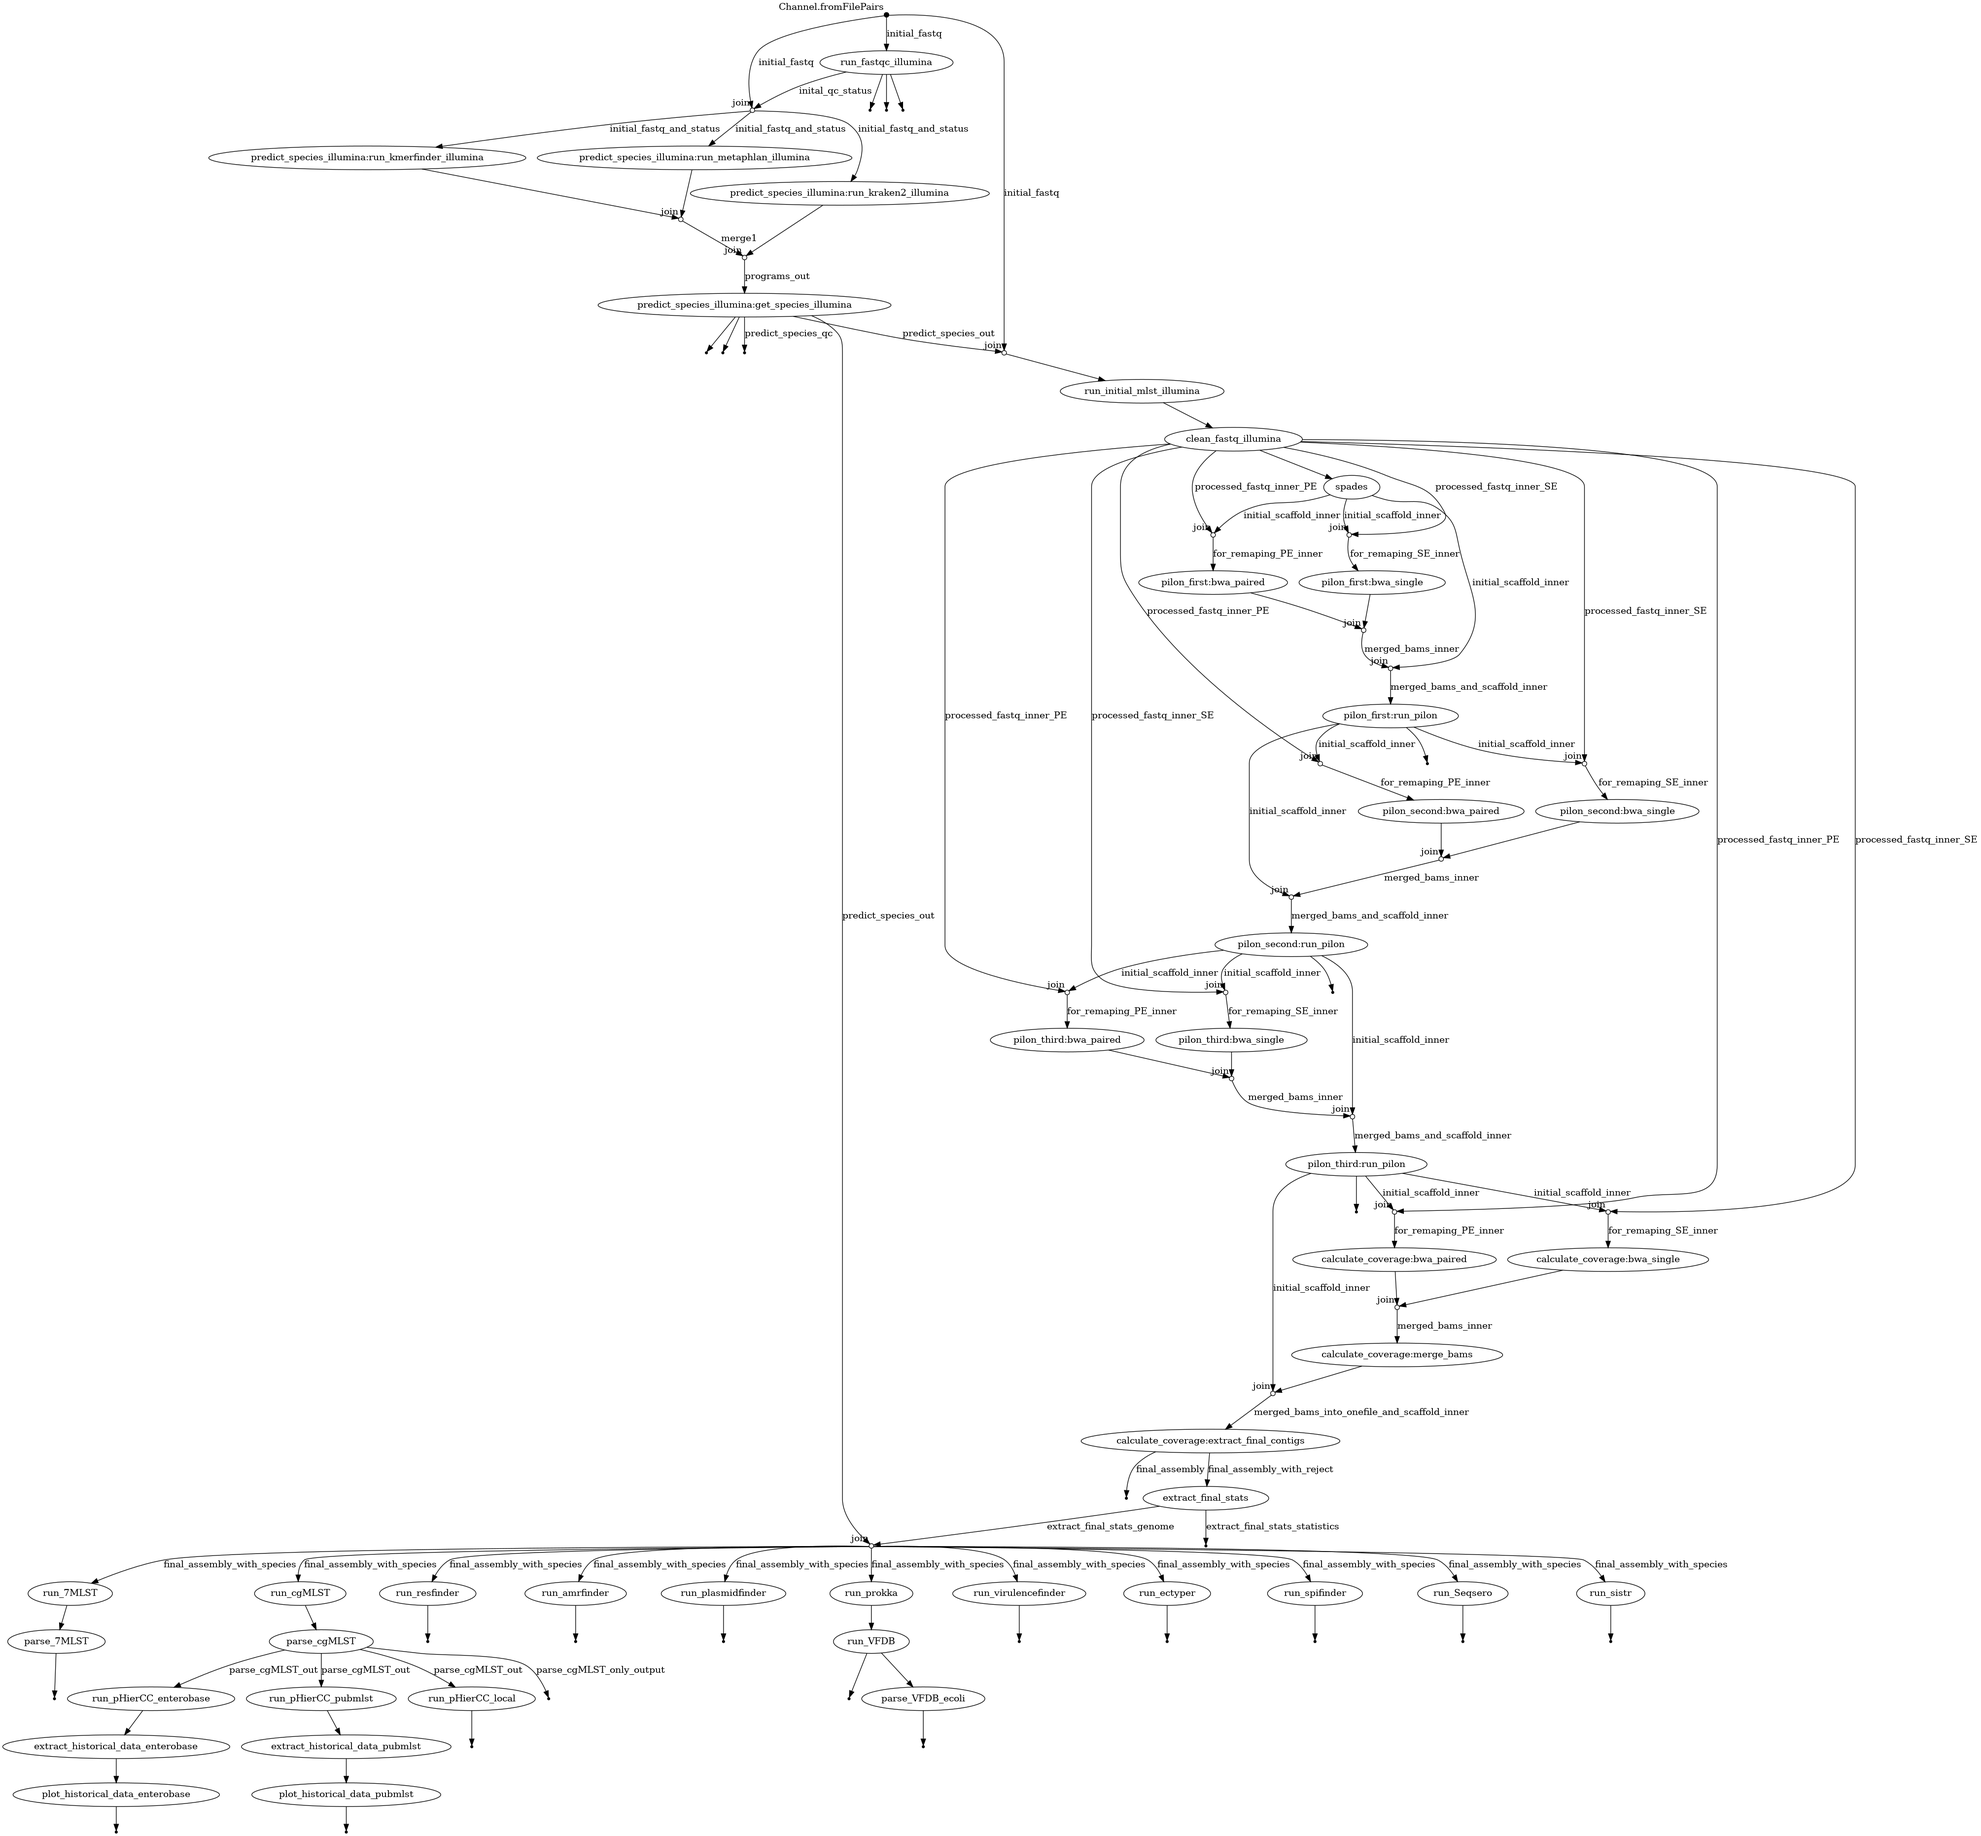
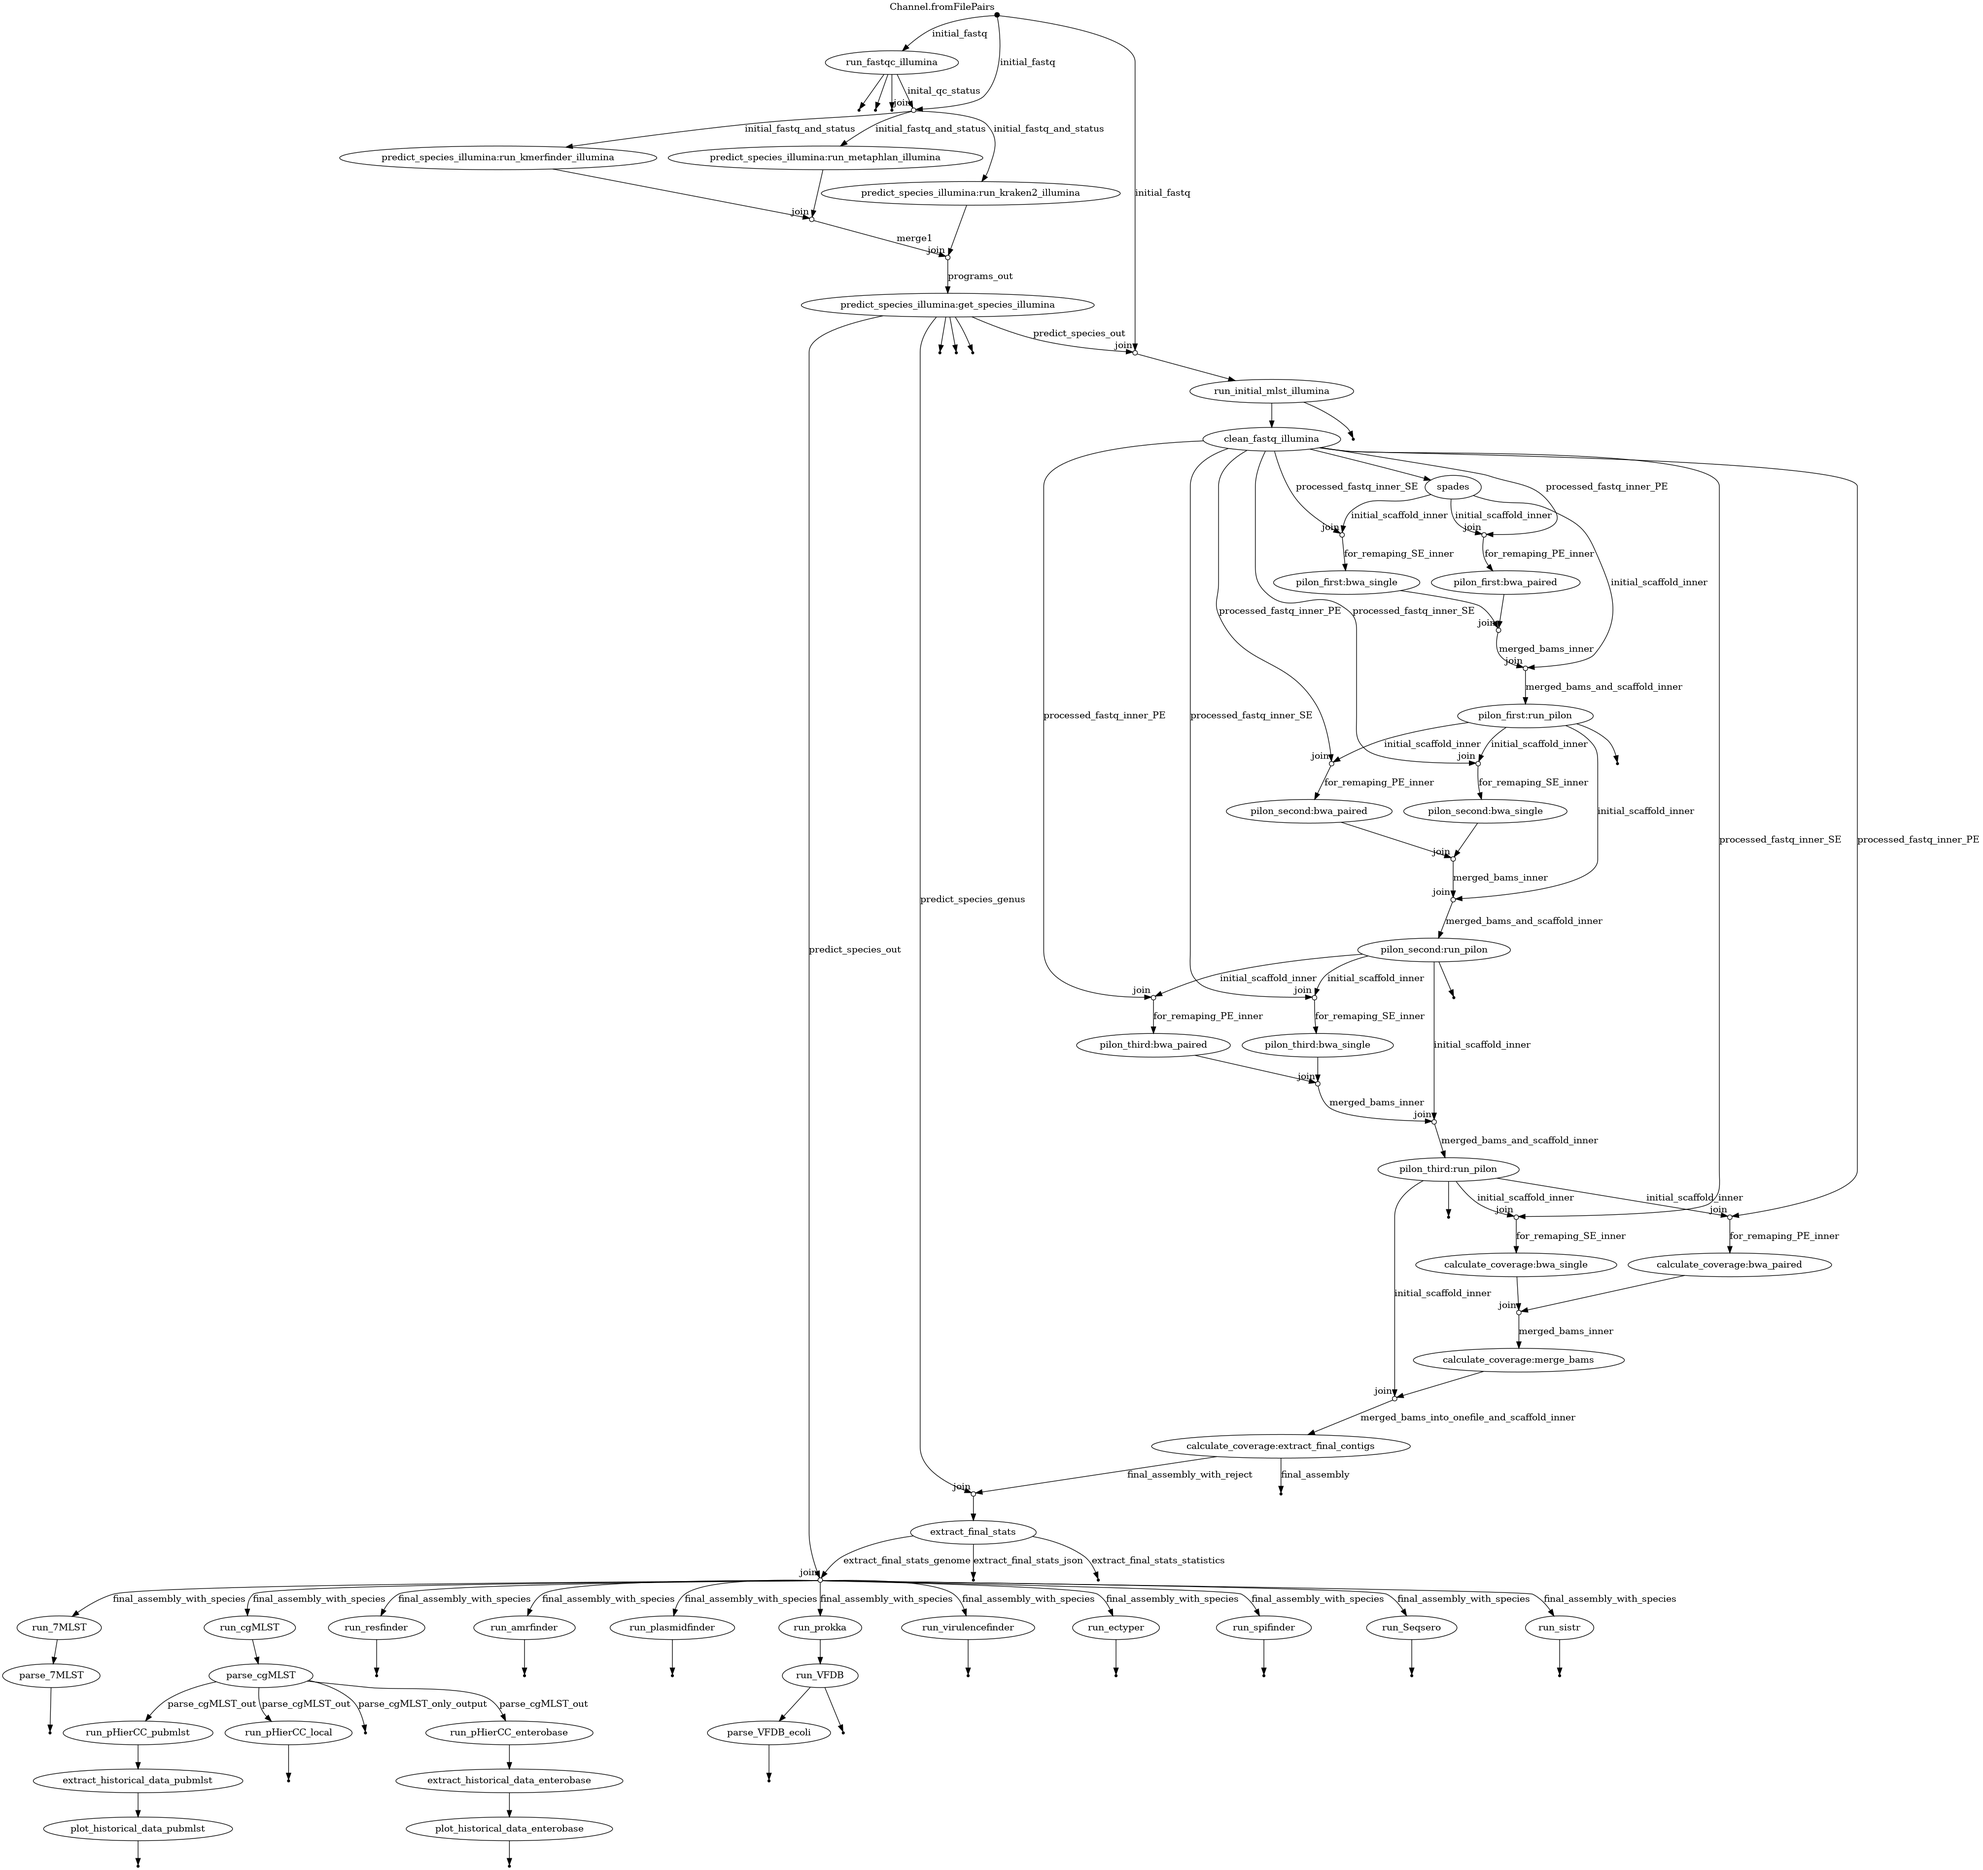
Pipeline now produce valid json ouput up to extract_final_stats module

diff --git a/bin/extract_final_stats_parser.py b/bin/extract_final_stats_parser.py
@@ -1,0 +1,157 @@
+#!/usr/bin/env python3
+"""
+Skrypt do zwracania statusu i json w module extract_final_stats
+"""
+
+import sys
+import click
+import json
+
+
+@click.command()
+@click.option('-i', '--input_file_filtered', help='[INPUT] a path to an input file with summary '
+                                                  'statistics of a genome that is based on filtered contigs ',
+              type=click.Path(), default="fastqc_data.txt", required=False)
+@click.option('-j', '--input_file_unfiltered', help='[INPUT] a path to an input file with summary '
+                                                    'statistics of a genome that is based on unfiltered contigs ',
+              type=click.Path(), default="fastqc_data.txt", required=False)
+@click.option('-l', '--nvalue', help='[INPUT] QC parameter minimal value of N50',
+              type=int,  required=True)
+@click.option('-n', '--max_contigs', help='[INPUT] QC parameter maximal number of contigs',
+              type=int,  required=True)
+@click.option('-g', '--genome_length', help='[INPUT] Length of an expected genome',
+              type=int,  required=True)
+@click.option('-c', '--completness', help='[INPUT] QC parameter. Fraction of genome completness',
+              type=float,  required=True)
+@click.option('-p', '--coverage', help='[INPUT] QC parameter. Minimal average coverage',
+              type=int,  required=True)
+@click.option('-s', '--status', help='[INPUT] PREDEFINED status that is transferred to an output json. '
+                                     'If this status was either nie or blad fastqc will not run',
+              type=click.Choice(['tak', 'nie', 'blad'], case_sensitive=False),  required=True)
+@click.option('-r', '--error', help='[INPUT] PREDEFINED error message that is put in json. '
+                                    'Only used when status was set to nie or blad',
+              type=str,  required=False, default="")
+@click.option('-o', '--output', help='[Output] Name of a file with json output',
+              type=str,  required=False)
+def main_program(input_file_filtered, input_file_unfiltered, max_contigs, nvalue, genome_length,
+                 completness, coverage, status, output="", error=""):
+    if status != "tak":
+        json_output = [{"step_name": "pre-filtering",
+                        "status": status,
+                        "error_message": error},
+                       {"step_name": "post-filtering",
+                        "status": status,
+                        "error_message": error}]
+    else:
+        json_output = []
+
+        # initial values of all parameters passed to a json output
+        # for unfiltered contigs
+
+        unfiltered_total_length_value = 0
+        unfiltered_number_of_contigs_value = 0
+        unfiltered_average_covereage_value = 0
+        unfiltered_N50_value = 0
+        unfiltered_L50_value = 0
+        unfiltered_number_of_Ns_value = 0
+
+        # for filtered contigs
+
+        filtered_total_length_value = 0
+        filtered_number_of_contigs_value = 0
+        filtered_average_covereage_value = 0
+        filtered_N50_value = 0
+        filtered_L50_value = 0
+        filtered_number_of_Ns_value = 0
+
+        with open(input_file_filtered) as f:
+            for line in f:
+                line = line.split("=")
+                klucz, wartosc = line[0].rstrip(), line[1].rstrip()
+                if klucz == "n_contig":
+                    filtered_number_of_contigs_value = int(float(wartosc))
+                elif klucz == "n_base":
+                    filtered_total_length_value = int(float(wartosc))
+                elif klucz == "ave_depth":
+                    filtered_average_covereage_value = round(float(wartosc), 2)
+                elif klucz == "n_N":
+                    filtered_number_of_Ns_value = int(float(wartosc))
+                elif klucz == "N50":
+                    filtered_N50_value = int(float(wartosc))
+                elif klucz == "L50":
+                    filtered_L50_value = int(float(wartosc))
+
+        # QC status podlega ocenia po uwzgledeniu przefiltrowanej listy contigow
+        if filtered_N50_value < nvalue or \
+            filtered_number_of_contigs_value > max_contigs or \
+            filtered_average_covereage_value < coverage or \
+            filtered_total_length_value < (float(completness) * int(genome_length)):
+            status = "blad"
+            QC_names = ['N50_value', "number_of_contigs_value", "average_covereage_value", "genome_completness"]
+            QC_values = [filtered_N50_value,
+                         filtered_number_of_contigs_value,
+                         filtered_average_covereage_value,
+                         filtered_total_length_value]
+
+            QC_statuses = [filtered_N50_value < nvalue,
+                           filtered_number_of_contigs_value > max_contigs,
+                           filtered_average_covereage_value < coverage,
+                           filtered_total_length_value < (float(completness) * int(genome_length))]
+            error = f"Predicted genome does not meet criteria for following parameters:\t"
+            for qc_status, qc_name, qc_value in zip(QC_statuses, QC_names ,QC_values):
+                if qc_status:
+                    error += f"{qc_name} is {qc_value}\t"
+            filtered_json = {"step_name": "post-filtering",
+                             "status": status,
+                             "error_message": error}
+        else:
+            filtered_json = {"step_name": "post-filtering",
+                             "status": "tak",
+                             "total_length_value": filtered_total_length_value,
+                             "number_of_contigs_value": filtered_number_of_contigs_value,
+                             "average_covereage_value": filtered_average_covereage_value,
+                             "N50_value": filtered_N50_value,
+                             "L50_value": filtered_L50_value,
+                             "number_of_Ns_value": filtered_number_of_Ns_value}
+
+        with open(input_file_unfiltered) as f:
+            for line in f:
+                line = line.split("=")
+                klucz, wartosc = line[0].rstrip(), line[1].rstrip()
+                if klucz == "n_contig":
+                    unfiltered_number_of_contigs_value = int(float(wartosc))
+                elif klucz == "n_base":
+                    unfiltered_total_length_value = int(float(wartosc))
+                elif klucz == "ave_depth":
+                    unfiltered_average_covereage_value = round(float(wartosc), 2)
+                elif klucz == "n_N":
+                    unfiltered_number_of_Ns_value = int(float(wartosc))
+                elif klucz == "N50":
+                    unfiltered_N50_value = int(float(wartosc))
+                elif klucz == "L50":
+                    unfiltered_L50_value = int(float(wartosc))
+
+        unfiltered_json = {"step_name": "pre-filtering",
+                           "status": "tak",
+                           "total_length_value": unfiltered_total_length_value,
+                           "number_of_contigs_value": unfiltered_number_of_contigs_value,
+                           "average_covereage_value": unfiltered_average_covereage_value,
+                           "N50_value": unfiltered_N50_value,
+                           "L50_value": unfiltered_L50_value,
+                           "number_of_Ns_value": unfiltered_number_of_Ns_value}
+        json_output.append(filtered_json)
+        json_output.append(unfiltered_json)
+
+    with open(output, 'w') as f1:
+        f1.write(json.dumps(json_output))
+    print(status)
+    return status
+
+
+if __name__ == '__main__':
+    # The main program returns 3 variables: "status", number_of_reads in a sample, and median_quality_of_reads
+    # These can be used to determine QC status in tha module
+    if len(sys.argv) == 1:
+        main_program(['--help'])
+    else:
+        main_program(sys.argv[1:])

diff --git a/bin/coverage_filter.py b/bin/coverage_filter.py
@@ -23,16 +23,19 @@ def read_genome_boundaries(fasta):
         dlugosci_segmentow[segment.id] =  len(segment.seq)
     return dlugosci_segmentow
 
-def filter_fastas(input_fasta, output_fasta, slownik_pokryc, global_coverage, threshold):
+def filter_fastas(input_fasta, output_fasta, slownik_pokryc, global_coverage, threshold, threshold_coverage):
     """
     Skrypt zapisuje do pliku output_fasta tylko te contigi z pliku input_fasta,
     ktorych pokrycie (trzymane w slowniku slownik_pokryc) wynosi co najmniej threshold * global_coverage
+    oraz jest wieksze niz threshold_coverage
+    De facto wprowadzenie tego warunku wywala wszystkie contigi z pokryciem mniejszym niz
+    threshold_coverage
     Outputowa fasta ma dodawana w naglowku _cov_X, gdzie X to wartosc
     """
     record= SeqIO.parse(input_fasta, 'fasta')
     with open(output_fasta, 'w') as plik, open('Rejected_contigs.fa', 'w') as reject:
         for r in record:
-            if slownik_pokryc[r.id] > (global_coverage * threshold):
+            if slownik_pokryc[r.id] > (global_coverage * threshold) and slownik_pokryc[r.id] > threshold_coverage:
                 plik.write(f'>{r.id}_cov_{slownik_pokryc[r.id]}\n')
                 plik.write(f'{str(r.seq)}\n')
             else:
@@ -46,6 +49,7 @@ def filter_fastas(input_fasta, output_fasta, slownik_pokryc, global_coverage, th
 reference_genome=sys.argv[1] # plik z contigami
 plik_bam = sys.argv[2] # bam zmapowany na contigi
 threshold = float(sys.argv[3]) # minimalna frakcja sredniego pokrycia contigu w stosunku do pokrycia globalnego
+threshold_coverage = float(sys.argv[3])
 qual = 5 # ignorujemy slabe zasady, ustawiamy "na sztywno" bo nie jest to bardzo wazny parametr w tym przypadku
 
 dlugosci_segmentow = read_genome_boundaries(reference_genome)
@@ -68,5 +72,5 @@ for segment in dlugosci_segmentow:
     slownik_pokryc[segment] = np.mean(segment_coverage)
 
 ## Zapisywanie outputu ##
-filter_fastas(reference_genome, 'final_scaffold_filtered.fa', slownik_pokryc, np.mean(global_coverage), threshold)
+filter_fastas(reference_genome, 'final_scaffold_filtered.fa', slownik_pokryc, np.mean(global_coverage), threshold, threshold_coverage)
 

diff --git a/bin/run_fastqc_and_generate_json.py b/bin/run_fastqc_and_generate_json.py
@@ -62,7 +62,8 @@ def main_program(input_file, memory, cpu, min_number, min_qual, status, stage, p
     else:
         # upewnijmy sie ze podany plik wogole istnieje
         try:
-            open(input_file)
+            with open(input_file) as dummy:
+                pass
         except FileNotFoundError:
             status = 'blad'
             json_dict = [{"status": {status}, "file_name": input_file, "step_name": stage,
